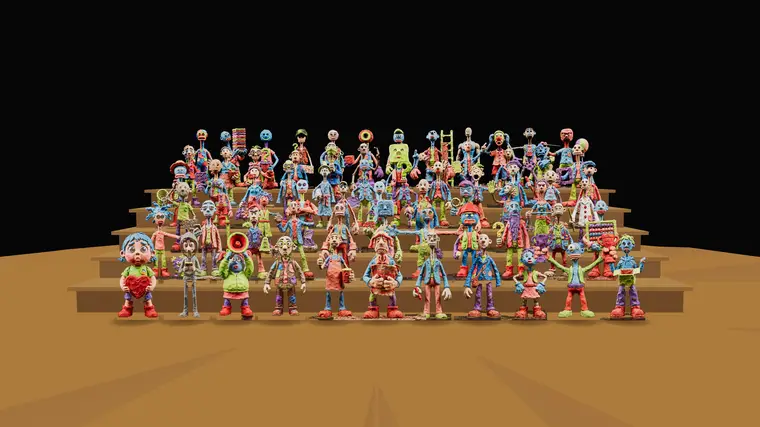
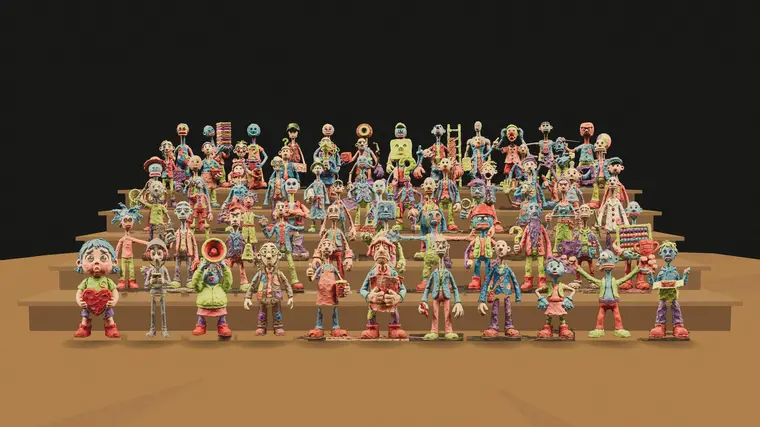
feat(72): 毕业照再拉近+80 年代滤镜（褪色暖黄/抬黑/细颗粒/暗角）；世界地图撤下全部角色只留世界本身

diff --git a/72/src/world.html b/72/src/world.html
@@ -4,46 +4,25 @@
 <meta charset="utf-8">
 <meta name="viewport" content="width=device-width, initial-scale=1">
 <title>评论区粘土世界 · 地图 — 72 号人物资产库</title>
-<meta name="description" content="72 号评论区人物资产库的粘土世界地图：一块捏出来的大陆、一条带刺长桥与桥尽头的城堡岛，69 个角色站在各自的地盘上，点任意角色直达他的资产卡。">
+<meta name="description" content="72 号评论区人物资产库的粘土世界地图：一块捏出来的大陆、一条带刺长桥与桥尽头的城堡岛，整张图按黏土材质生成，指纹、按压痕与泥块接缝都在。">
 <style>
   *{margin:0;padding:0;box-sizing:border-box}
   html,body{background:#060607}
-  body{font-family:"Hiragino Maru Gothic ProN","Yu Gothic UI","Noto Sans SC",system-ui,sans-serif;color:#f3ead8;
-    -webkit-user-select:none;user-select:none}
+  body{font-family:"Hiragino Maru Gothic ProN","Yu Gothic UI","Noto Sans SC",system-ui,sans-serif;color:#f3ead8}
   #backBtn{position:fixed;top:14px;left:14px;z-index:20;background:#fdf6e3;color:#26221c;border:3px solid #26221c;border-radius:99px;
     padding:8px 16px;font-weight:800;font-size:14px;text-decoration:none;box-shadow:4px 4px 0 #26221c}
   #backBtn:active{transform:translate(2px,2px);box-shadow:2px 2px 0 #26221c}
   #titleBox{position:fixed;top:12px;left:50%;transform:translateX(-50%);z-index:20;text-align:center;pointer-events:none;width:max-content;max-width:92vw}
   #titleBox h1{font-size:clamp(19px,3.4vw,30px);letter-spacing:.04em;text-shadow:0 2px 0 #000,0 0 22px rgba(0,0,0,.9)}
   #titleBox p{font-size:12.5px;opacity:.9;margin-top:3px;text-shadow:0 1px 0 #000}
-  #hint{position:fixed;bottom:14px;left:50%;transform:translateX(-50%);z-index:20;background:rgba(20,16,10,.78);border:2px solid rgba(243,234,216,.35);
-    border-radius:99px;padding:7px 16px;font-size:12.5px;white-space:nowrap;pointer-events:none}
-  .mapScroll{overflow-x:hidden;padding:64px 0 58px}
+  .mapScroll{overflow-x:hidden;padding:64px 0 40px}
   .mapWrap{position:relative;width:min(1500px,100%);margin:0 auto;line-height:0}
   .mapWrap>img.base{width:100%;height:auto;display:block}
-  .char{position:absolute;transform:translate(-50%,-100%);line-height:0;z-index:5;
-    filter:drop-shadow(0 3px 3px rgba(0,0,0,.55));transition:transform .15s}
-  .char img{width:100%;height:auto;display:block}
-  .char:hover,.char:focus-visible{z-index:9;transform:translate(-50%,-100%) scale(1.22)}
-  .zoneTag{position:absolute;transform:translate(-50%,-50%);z-index:4;pointer-events:none;line-height:1;
-    background:rgba(20,14,8,.72);border:2px solid rgba(243,234,216,.5);color:#f3ead8;border-radius:99px;
-    padding:5px 11px;font-size:clamp(10px,1.15vw,14px);font-weight:800;letter-spacing:.05em;white-space:nowrap}
-  .zoneTag small{color:#e9b44c;font-weight:700}
-  .qmark{position:absolute;transform:translate(-50%,-100%);z-index:6;line-height:1;cursor:pointer;
-    background:#5a4a6e;color:#fdf6e3;border:2.5px solid #26221c;border-radius:10px;box-shadow:3px 3px 0 rgba(0,0,0,.6);
-    font-weight:900;font-size:clamp(13px,1.6vw,22px);padding:.28em .42em}
-  .qmark:hover{background:#6e5a86}
-  #hiddenTip{position:fixed;z-index:30;left:50%;bottom:64px;transform:translateX(-50%) translateY(20px);opacity:0;pointer-events:none;
-    transition:all .2s;background:#fdf6e3;color:#26221c;border:3px solid #26221c;border-radius:14px;box-shadow:5px 5px 0 rgba(0,0,0,.55);
-    padding:12px 18px;font-size:14px;font-weight:700;text-align:center;line-height:1.5}
-  #hiddenTip.on{opacity:1;transform:translateX(-50%) translateY(0)}
-  #hiddenTip small{display:block;font-weight:500;font-size:12px;opacity:.75}
-  .footNote{max-width:900px;margin:2px auto 0;padding:0 18px;text-align:center;font-size:12.5px;line-height:1.8;opacity:.65}
+  .footNote{max-width:900px;margin:10px auto 0;padding:0 18px;text-align:center;font-size:12.5px;line-height:1.8;opacity:.65}
   @media(max-width:640px){
     #titleBox{top:60px}
     .mapScroll{overflow-x:auto;padding-top:104px}
     .mapWrap{width:235%}
-    #hint{font-size:11px;bottom:10px}
   }
 </style>
 </head>
@@ -51,119 +30,15 @@
 <a id="backBtn" href="/">← 回到选人画面</a>
 <div id="titleBox">
   <h1>🌍 评论区粘土世界 · 地图</h1>
-  <p>大陆 · 带刺长桥 · 城堡岛 — 69 个角色都在图上，点谁看谁的资产卡</p>
+  <p>大陆 · 带刺长桥 · 城堡岛</p>
 </div>
 
 <div class="mapScroll">
-  <div class="mapWrap" id="mapWrap">
+  <div class="mapWrap">
     <img class="base" src="/img/world-map.webp" alt="黏土世界地图：有机大陆、带刺长桥与城堡岛" width="2048" height="1152">
   </div>
-  <p class="footNote">这张世界图是按黏土世界的材质整张「捏」出来的（指纹、按压痕、泥块接缝都在），建筑造型为原创；隐藏角色 No.70–72 躲在粉崖底下的洞口那儿。</p>
+  <p class="footNote">这张世界图是按黏土世界的材质整张「捏」出来的（指纹、按压痕、泥块接缝都在），建筑造型为原创。角色们都在选人画面里，这张图就只看世界本身。</p>
 </div>
 
-<div id="hint">👆 点任意角色看他的资产卡 · 洞口的「?」是隐藏角色</div>
-<div id="hiddenTip">🔒 隐藏角色 No.70–72<small>本人还没被想出来 · 就先在洞口待着</small></div>
-
-<script>
-function mulberry32(a){return function(){a|=0;a=a+0x6D2B79F5|0;let t=Math.imul(a^a>>>15,1|a);t=t+Math.imul(t^t>>>7,61|t)^t;return((t^t>>>14)>>>0)/4294967296}}
-const rnd = mulberry32(2028);
-/* 区域锚点：x/y 为脚下点（%），cols 列数，dx/dy 网格步距（%） */
-const CLUSTERS = [
-  {faction:'真爱粉丝', ax:13.5, ay:25,  cols:3, dx:3.6, dy:5.5, n:5,  tag:['真爱粉丝', '绿丘', 13.5, 11]},
-  {faction:'挑剔观众', ax:36,   ay:31,  cols:3, dx:3.4, dy:5.0, n:5},
-  {faction:'挑剔观众', ax:20.5, ay:52,  cols:2, dx:3.6, dy:5.0, n:5,  tag:['挑剔观众', '回音湖', 33, 12.5]},
-  {faction:'理性分析', ax:46,   ay:60,  cols:5, dx:3.1, dy:5.2, n:10, tag:['理性分析', '档案馆', 46, 41.5]},
-  {faction:'立场交锋', ax:29,   ay:40,  cols:3, dx:3.6, dy:5.2, n:6,  tag:['立场交锋', '粉崖', 29, 31.5]},
-  {faction:'立场交锋', ax:12.5, ay:57,  cols:2, dx:3.6, dy:5.0, n:4},
-  {faction:'路过乱入', ax:33,   ay:57,  cols:3, dx:3.4, dy:5.2, n:6,  tag:['路过乱入', '广场 · 长桥', 64, 57]},
-  {faction:'路过乱入', ax:53,   ay:61,  cols:2, dx:3.4, dy:5.0, n:4},
-  {faction:'路过乱入', bridge:true, n:5},
-  {faction:'高阶抬杠', ax:75.5, ay:21,  cols:1, dx:3,   dy:5,   n:1,  tag:['高阶抬杠', '城堡岛', 90, 33]},
-  {faction:'高阶抬杠', ax:90,   ay:63,  cols:5, dx:2.9, dy:3.8, n:18},
-];
-const BRIDGE_SPOTS = [[60,64.5],[65.5,65.5],[70.5,66.5],[76,67.5],[81,66.5]];
-const wrap = document.getElementById('mapWrap');
-const tip = document.getElementById('hiddenTip');
-let tipTimer = null;
-function showHiddenTip(){
-  tip.classList.add('on');
-  clearTimeout(tipTimer);
-  tipTimer = setTimeout(()=>tip.classList.remove('on'), 2600);
-}
-fetch('/characters.json').then(r=>r.json()).then(data=>{
-  const pools = {};
-  for(const c of data){ (pools[c.faction] = pools[c.faction] || []).push(c); }
-  for(const f in pools) pools[f].sort((a,b)=>a.id-b.id);
-  const tags = [];
-  function addChar(c, x, y, w){
-    const a = document.createElement('a');
-    a.className = 'char';
-    a.href = '/#c' + c.id;
-    a.title = `No.${c.id} ${c.name} · ${c.title}`;
-    a.style.left = x + '%';
-    a.style.top = y + '%';
-    a.style.width = w + '%';
-    const img = document.createElement('img');
-    img.src = `/img/view-front-${String(c.id).padStart(2,'0')}.webp`;
-    img.alt = c.name;
-    img.loading = 'lazy';
-    a.appendChild(img);
-    wrap.appendChild(a);
-  }
-  for(const cl of CLUSTERS){
-    const pool = pools[cl.faction] || [];
-    if(cl.tag) tags.push(cl.tag);
-    if(cl.bridge){
-      BRIDGE_SPOTS.forEach(([x, y])=>{
-        const c = pool.shift();
-        if(c) addChar(c, x + (rnd()-0.5)*0.8, y + (rnd()-0.5)*0.8, 3.1);
-      });
-      continue;
-    }
-    for(let i=0;i<cl.n;i++){
-      const c = pool.shift();
-      if(!c) break;
-      const col = i % cl.cols, row = Math.floor(i / cl.cols);
-      const x = cl.ax + (col - (cl.cols-1)/2) * cl.dx + (rnd()-0.5)*0.9;
-      const y = cl.ay + row * cl.dy + (rnd()-0.5)*0.7;
-      addChar(c, x, y, 3.4);
-    }
-  }
-  /* 兜底：没分到位置的角色放广场南缘 */
-  let sweep = 0;
-  for(const f in pools){
-    while(pools[f].length){
-      const c = pools[f].shift();
-      addChar(c, 26 + sweep*3.4, 84, 3.4);
-      sweep++;
-    }
-  }
-  for(const [name, sub, x, y] of tags){
-    const t = document.createElement('span');
-    t.className = 'zoneTag';
-    t.innerHTML = `${name} <small>${sub}</small>`;
-    t.style.left = x + '%';
-    t.style.top = y + '%';
-    wrap.appendChild(t);
-  }
-  /* 隐藏角色：崖底洞口的三块「?」 */
-  [[16.5, 69], [19.2, 70.5], [21.9, 69]].forEach(([x, y])=>{
-    const q = document.createElement('button');
-    q.className = 'qmark';
-    q.textContent = '?';
-    q.style.left = x + '%';
-    q.style.top = y + '%';
-    q.setAttribute('aria-label', '隐藏角色');
-    q.addEventListener('click', showHiddenTip);
-    wrap.appendChild(q);
-  });
-  const ht = document.createElement('span');
-  ht.className = 'zoneTag';
-  ht.innerHTML = `隐藏角色 <small>No.70–72 · 崖底洞口</small>`;
-  ht.style.left = '19%';
-  ht.style.top = '79%';
-  wrap.appendChild(ht);
-});
-</script>
 </body>
 </html>

diff --git a/72/world.html b/72/world.html
@@ -4,46 +4,25 @@
 <meta charset="utf-8">
 <meta name="viewport" content="width=device-width, initial-scale=1">
 <title>评论区粘土世界 · 地图 — 72 号人物资产库</title>
-<meta name="description" content="72 号评论区人物资产库的粘土世界地图：一块捏出来的大陆、一条带刺长桥与桥尽头的城堡岛，69 个角色站在各自的地盘上，点任意角色直达他的资产卡。">
+<meta name="description" content="72 号评论区人物资产库的粘土世界地图：一块捏出来的大陆、一条带刺长桥与桥尽头的城堡岛，整张图按黏土材质生成，指纹、按压痕与泥块接缝都在。">
 <style>
   *{margin:0;padding:0;box-sizing:border-box}
   html,body{background:#060607}
-  body{font-family:"Hiragino Maru Gothic ProN","Yu Gothic UI","Noto Sans SC",system-ui,sans-serif;color:#f3ead8;
-    -webkit-user-select:none;user-select:none}
+  body{font-family:"Hiragino Maru Gothic ProN","Yu Gothic UI","Noto Sans SC",system-ui,sans-serif;color:#f3ead8}
   #backBtn{position:fixed;top:14px;left:14px;z-index:20;background:#fdf6e3;color:#26221c;border:3px solid #26221c;border-radius:99px;
     padding:8px 16px;font-weight:800;font-size:14px;text-decoration:none;box-shadow:4px 4px 0 #26221c}
   #backBtn:active{transform:translate(2px,2px);box-shadow:2px 2px 0 #26221c}
   #titleBox{position:fixed;top:12px;left:50%;transform:translateX(-50%);z-index:20;text-align:center;pointer-events:none;width:max-content;max-width:92vw}
   #titleBox h1{font-size:clamp(19px,3.4vw,30px);letter-spacing:.04em;text-shadow:0 2px 0 #000,0 0 22px rgba(0,0,0,.9)}
   #titleBox p{font-size:12.5px;opacity:.9;margin-top:3px;text-shadow:0 1px 0 #000}
-  #hint{position:fixed;bottom:14px;left:50%;transform:translateX(-50%);z-index:20;background:rgba(20,16,10,.78);border:2px solid rgba(243,234,216,.35);
-    border-radius:99px;padding:7px 16px;font-size:12.5px;white-space:nowrap;pointer-events:none}
-  .mapScroll{overflow-x:hidden;padding:64px 0 58px}
+  .mapScroll{overflow-x:hidden;padding:64px 0 40px}
   .mapWrap{position:relative;width:min(1500px,100%);margin:0 auto;line-height:0}
   .mapWrap>img.base{width:100%;height:auto;display:block}
-  .char{position:absolute;transform:translate(-50%,-100%);line-height:0;z-index:5;
-    filter:drop-shadow(0 3px 3px rgba(0,0,0,.55));transition:transform .15s}
-  .char img{width:100%;height:auto;display:block}
-  .char:hover,.char:focus-visible{z-index:9;transform:translate(-50%,-100%) scale(1.22)}
-  .zoneTag{position:absolute;transform:translate(-50%,-50%);z-index:4;pointer-events:none;line-height:1;
-    background:rgba(20,14,8,.72);border:2px solid rgba(243,234,216,.5);color:#f3ead8;border-radius:99px;
-    padding:5px 11px;font-size:clamp(10px,1.15vw,14px);font-weight:800;letter-spacing:.05em;white-space:nowrap}
-  .zoneTag small{color:#e9b44c;font-weight:700}
-  .qmark{position:absolute;transform:translate(-50%,-100%);z-index:6;line-height:1;cursor:pointer;
-    background:#5a4a6e;color:#fdf6e3;border:2.5px solid #26221c;border-radius:10px;box-shadow:3px 3px 0 rgba(0,0,0,.6);
-    font-weight:900;font-size:clamp(13px,1.6vw,22px);padding:.28em .42em}
-  .qmark:hover{background:#6e5a86}
-  #hiddenTip{position:fixed;z-index:30;left:50%;bottom:64px;transform:translateX(-50%) translateY(20px);opacity:0;pointer-events:none;
-    transition:all .2s;background:#fdf6e3;color:#26221c;border:3px solid #26221c;border-radius:14px;box-shadow:5px 5px 0 rgba(0,0,0,.55);
-    padding:12px 18px;font-size:14px;font-weight:700;text-align:center;line-height:1.5}
-  #hiddenTip.on{opacity:1;transform:translateX(-50%) translateY(0)}
-  #hiddenTip small{display:block;font-weight:500;font-size:12px;opacity:.75}
-  .footNote{max-width:900px;margin:2px auto 0;padding:0 18px;text-align:center;font-size:12.5px;line-height:1.8;opacity:.65}
+  .footNote{max-width:900px;margin:10px auto 0;padding:0 18px;text-align:center;font-size:12.5px;line-height:1.8;opacity:.65}
   @media(max-width:640px){
     #titleBox{top:60px}
     .mapScroll{overflow-x:auto;padding-top:104px}
     .mapWrap{width:235%}
-    #hint{font-size:11px;bottom:10px}
   }
 </style>
 </head>
@@ -51,119 +30,15 @@
 <a id="backBtn" href="/">← 回到选人画面</a>
 <div id="titleBox">
   <h1>🌍 评论区粘土世界 · 地图</h1>
-  <p>大陆 · 带刺长桥 · 城堡岛 — 69 个角色都在图上，点谁看谁的资产卡</p>
+  <p>大陆 · 带刺长桥 · 城堡岛</p>
 </div>
 
 <div class="mapScroll">
-  <div class="mapWrap" id="mapWrap">
+  <div class="mapWrap">
     <img class="base" src="/img/world-map.webp" alt="黏土世界地图：有机大陆、带刺长桥与城堡岛" width="2048" height="1152">
   </div>
-  <p class="footNote">这张世界图是按黏土世界的材质整张「捏」出来的（指纹、按压痕、泥块接缝都在），建筑造型为原创；隐藏角色 No.70–72 躲在粉崖底下的洞口那儿。</p>
+  <p class="footNote">这张世界图是按黏土世界的材质整张「捏」出来的（指纹、按压痕、泥块接缝都在），建筑造型为原创。角色们都在选人画面里，这张图就只看世界本身。</p>
 </div>
 
-<div id="hint">👆 点任意角色看他的资产卡 · 洞口的「?」是隐藏角色</div>
-<div id="hiddenTip">🔒 隐藏角色 No.70–72<small>本人还没被想出来 · 就先在洞口待着</small></div>
-
-<script>
-function mulberry32(a){return function(){a|=0;a=a+0x6D2B79F5|0;let t=Math.imul(a^a>>>15,1|a);t=t+Math.imul(t^t>>>7,61|t)^t;return((t^t>>>14)>>>0)/4294967296}}
-const rnd = mulberry32(2028);
-/* 区域锚点：x/y 为脚下点（%），cols 列数，dx/dy 网格步距（%） */
-const CLUSTERS = [
-  {faction:'真爱粉丝', ax:13.5, ay:25,  cols:3, dx:3.6, dy:5.5, n:5,  tag:['真爱粉丝', '绿丘', 13.5, 11]},
-  {faction:'挑剔观众', ax:36,   ay:31,  cols:3, dx:3.4, dy:5.0, n:5},
-  {faction:'挑剔观众', ax:20.5, ay:52,  cols:2, dx:3.6, dy:5.0, n:5,  tag:['挑剔观众', '回音湖', 33, 12.5]},
-  {faction:'理性分析', ax:46,   ay:60,  cols:5, dx:3.1, dy:5.2, n:10, tag:['理性分析', '档案馆', 46, 41.5]},
-  {faction:'立场交锋', ax:29,   ay:40,  cols:3, dx:3.6, dy:5.2, n:6,  tag:['立场交锋', '粉崖', 29, 31.5]},
-  {faction:'立场交锋', ax:12.5, ay:57,  cols:2, dx:3.6, dy:5.0, n:4},
-  {faction:'路过乱入', ax:33,   ay:57,  cols:3, dx:3.4, dy:5.2, n:6,  tag:['路过乱入', '广场 · 长桥', 64, 57]},
-  {faction:'路过乱入', ax:53,   ay:61,  cols:2, dx:3.4, dy:5.0, n:4},
-  {faction:'路过乱入', bridge:true, n:5},
-  {faction:'高阶抬杠', ax:75.5, ay:21,  cols:1, dx:3,   dy:5,   n:1,  tag:['高阶抬杠', '城堡岛', 90, 33]},
-  {faction:'高阶抬杠', ax:90,   ay:63,  cols:5, dx:2.9, dy:3.8, n:18},
-];
-const BRIDGE_SPOTS = [[60,64.5],[65.5,65.5],[70.5,66.5],[76,67.5],[81,66.5]];
-const wrap = document.getElementById('mapWrap');
-const tip = document.getElementById('hiddenTip');
-let tipTimer = null;
-function showHiddenTip(){
-  tip.classList.add('on');
-  clearTimeout(tipTimer);
-  tipTimer = setTimeout(()=>tip.classList.remove('on'), 2600);
-}
-fetch('/characters.json').then(r=>r.json()).then(data=>{
-  const pools = {};
-  for(const c of data){ (pools[c.faction] = pools[c.faction] || []).push(c); }
-  for(const f in pools) pools[f].sort((a,b)=>a.id-b.id);
-  const tags = [];
-  function addChar(c, x, y, w){
-    const a = document.createElement('a');
-    a.className = 'char';
-    a.href = '/#c' + c.id;
-    a.title = `No.${c.id} ${c.name} · ${c.title}`;
-    a.style.left = x + '%';
-    a.style.top = y + '%';
-    a.style.width = w + '%';
-    const img = document.createElement('img');
-    img.src = `/img/view-front-${String(c.id).padStart(2,'0')}.webp`;
-    img.alt = c.name;
-    img.loading = 'lazy';
-    a.appendChild(img);
-    wrap.appendChild(a);
-  }
-  for(const cl of CLUSTERS){
-    const pool = pools[cl.faction] || [];
-    if(cl.tag) tags.push(cl.tag);
-    if(cl.bridge){
-      BRIDGE_SPOTS.forEach(([x, y])=>{
-        const c = pool.shift();
-        if(c) addChar(c, x + (rnd()-0.5)*0.8, y + (rnd()-0.5)*0.8, 3.1);
-      });
-      continue;
-    }
-    for(let i=0;i<cl.n;i++){
-      const c = pool.shift();
-      if(!c) break;
-      const col = i % cl.cols, row = Math.floor(i / cl.cols);
-      const x = cl.ax + (col - (cl.cols-1)/2) * cl.dx + (rnd()-0.5)*0.9;
-      const y = cl.ay + row * cl.dy + (rnd()-0.5)*0.7;
-      addChar(c, x, y, 3.4);
-    }
-  }
-  /* 兜底：没分到位置的角色放广场南缘 */
-  let sweep = 0;
-  for(const f in pools){
-    while(pools[f].length){
-      const c = pools[f].shift();
-      addChar(c, 26 + sweep*3.4, 84, 3.4);
-      sweep++;
-    }
-  }
-  for(const [name, sub, x, y] of tags){
-    const t = document.createElement('span');
-    t.className = 'zoneTag';
-    t.innerHTML = `${name} <small>${sub}</small>`;
-    t.style.left = x + '%';
-    t.style.top = y + '%';
-    wrap.appendChild(t);
-  }
-  /* 隐藏角色：崖底洞口的三块「?」 */
-  [[16.5, 69], [19.2, 70.5], [21.9, 69]].forEach(([x, y])=>{
-    const q = document.createElement('button');
-    q.className = 'qmark';
-    q.textContent = '?';
-    q.style.left = x + '%';
-    q.style.top = y + '%';
-    q.setAttribute('aria-label', '隐藏角色');
-    q.addEventListener('click', showHiddenTip);
-    wrap.appendChild(q);
-  });
-  const ht = document.createElement('span');
-  ht.className = 'zoneTag';
-  ht.innerHTML = `隐藏角色 <small>No.70–72 · 崖底洞口</small>`;
-  ht.style.left = '19%';
-  ht.style.top = '79%';
-  wrap.appendChild(ht);
-});
-</script>
 </body>
 </html>

diff --git a/72/src/photo.html b/72/src/photo.html
@@ -28,8 +28,8 @@ scene.background = new THREE.Color(0x060607);
 scene.fog = new THREE.FogExp2(0x060607, 0.0016);
 
 const camera = new THREE.PerspectiveCamera(40, innerWidth/innerHeight, 0.1, 500);
-camera.position.set(0, 4.8, 20);
-camera.lookAt(0, 3.4, -3);
+camera.position.set(0, 4.6, 17.2);
+camera.lookAt(0, 3.5, -3);
 
 scene.add(new THREE.HemisphereLight(0xfff2dd, 0x3a2c22, 1.05));
 const sun = new THREE.DirectionalLight(0xffe6b8, 1.8); sun.position.set(35, 60, 45); scene.add(sun);
